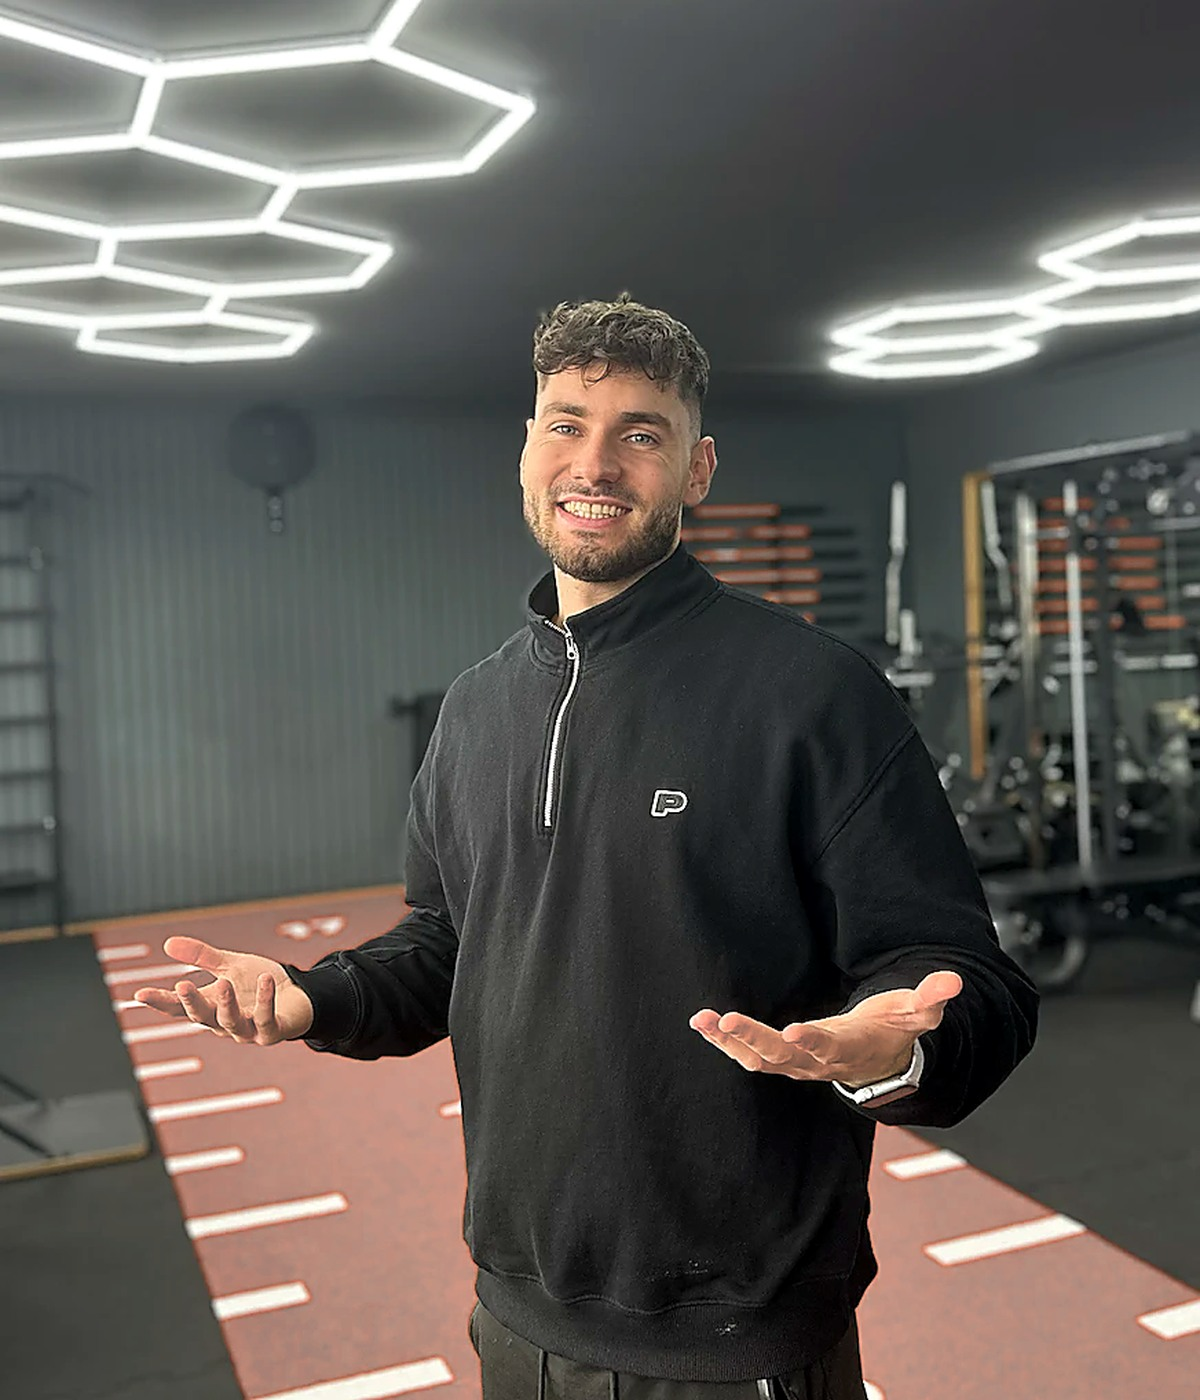
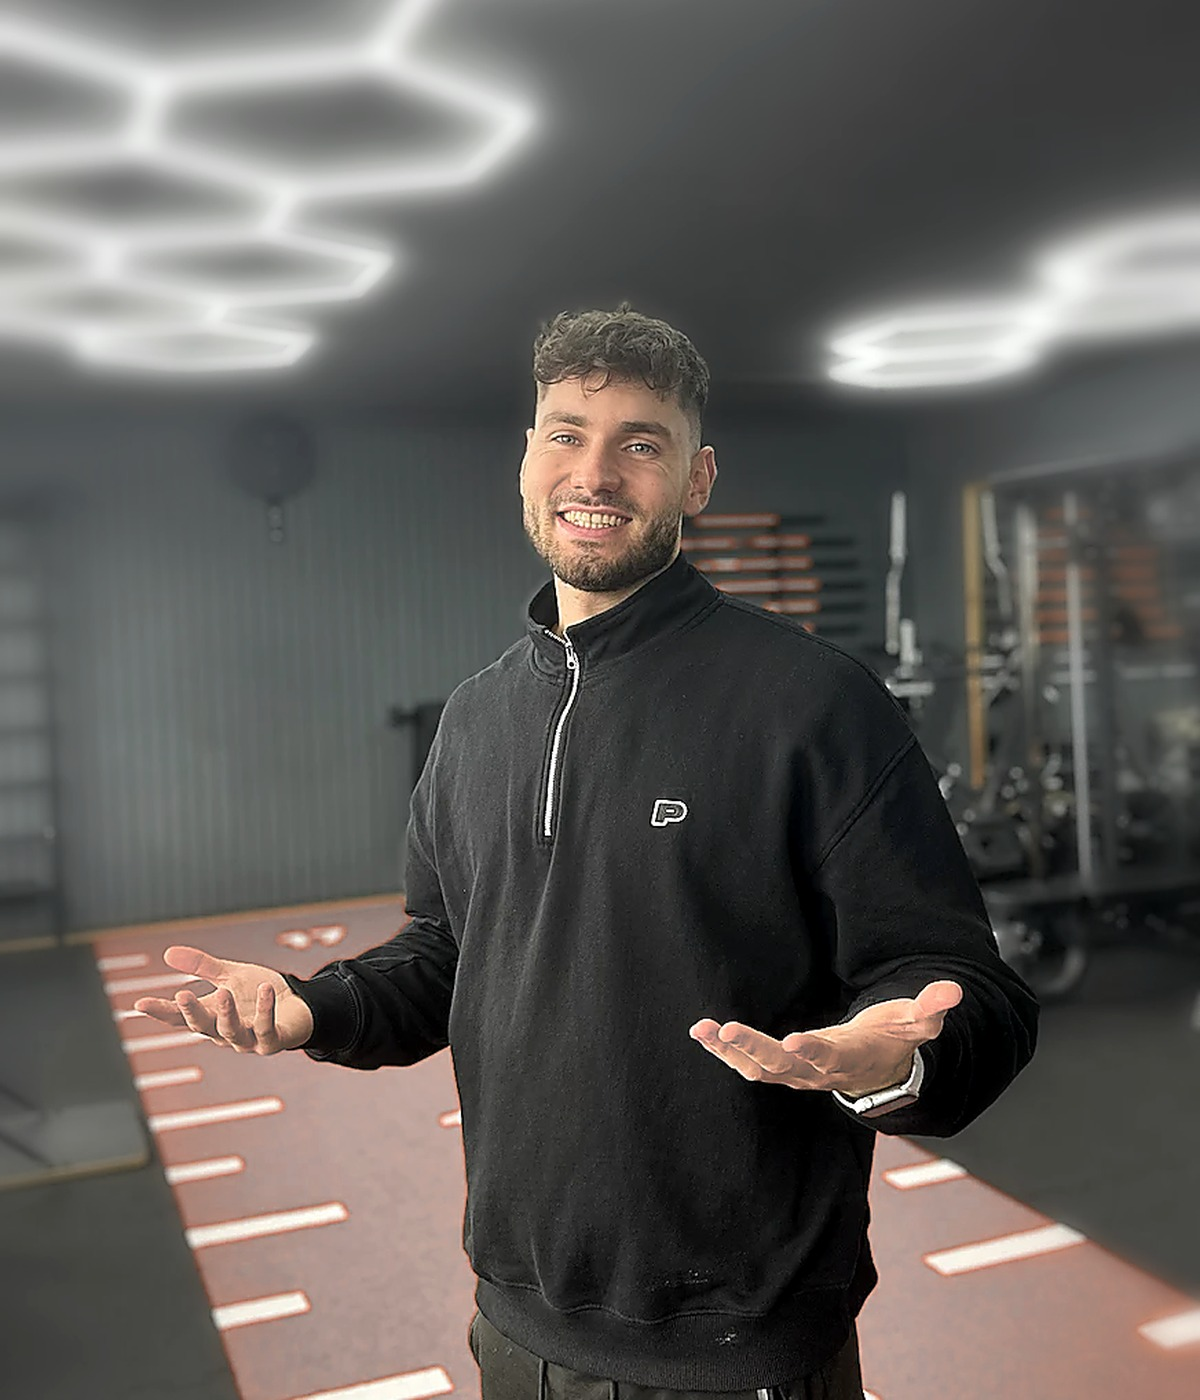
Hero auf dem Handy zweispaltig, Einladungsfoto mit Tiefenunschaerfe
- Hero: unter 820 px steht das Foto jetzt neben der Headline statt darunter
  (.hero-inner display:contents, Lead/Buttons/Bewertung darunter ueber die
  volle Breite), Bild im Format 3:4, Headline entsprechend kleiner
- aaron-call.jpg und aaron-point.jpg: Hintergrund per weicher Ellipsenmaske
  unscharf und entsaettigt, Orange zurueckgenommen, nachgeschaerft, 1200x1400
- .wait-cal vorbereitet, falls das Calendly-Widget an die Stelle des Fotos soll

Claude-Session: https://claude.ai/code/session_01X9ucmw29y3B6YrVRvm8FdK

diff --git a/styles.css b/styles.css
@@ -355,8 +355,21 @@ section[id],main[id]{scroll-margin-top:86px}
   .rating-text{font-size:.88rem}
   .media-frame::after{font-size:.74rem}
 
-  .hero{grid-template-columns:1fr;padding-top:2rem}
-  .hero-media{max-width:300px;margin-top:.5rem}
+  /* Hero bleibt auch auf dem Handy zweispaltig: Bild steht neben der Headline,
+     Lead, Buttons und Bewertung laufen darunter ueber die volle Breite */
+  .hero{
+    grid-template-columns:minmax(0,1fr) minmax(104px,34%);
+    column-gap:clamp(.8rem,3vw,1.6rem);row-gap:0;
+    padding-top:1.7rem;align-items:start
+  }
+  .hero-inner{display:contents}
+  .eyebrow{grid-column:1/-1;grid-row:1;margin-bottom:1rem}
+  .hero-title{grid-column:1;grid-row:2;align-self:center}
+  .hero-media{grid-column:2;grid-row:2;align-self:center;margin:0;max-width:none}
+  .lead{grid-column:1/-1;grid-row:3;margin:1.5rem 0 1.7rem;max-width:none}
+  .hero-cta{grid-column:1/-1;grid-row:4}
+  .rating{grid-column:1/-1;grid-row:5;justify-self:start;margin-top:1.3rem}
+  h1{font-size:clamp(2.35rem,9.2vw,3.4rem)}
   .nav{flex-wrap:wrap;row-gap:.65rem}
   .nav-links{order:3;width:100%;gap:1.35rem;overflow-x:auto;scrollbar-width:none;font-size:.88rem;padding-bottom:.15rem}
   .nav-links::-webkit-scrollbar{display:none}
@@ -521,8 +534,9 @@ html.lenis,html.lenis body{height:auto}
   .coach-media{max-width:300px}
 }
 @media (max-width:820px){
-  .hero-media{margin-right:0;max-width:340px;margin-inline:auto}
-  .hero-media img{max-height:none;clip-path:polygon(0 0,100% 0,100% 100%,0 100%);border-radius:var(--r)}
+  .hero-media{margin-right:0}
+  .hero-media img{max-height:none;aspect-ratio:3/4;object-position:56% 18%;
+    clip-path:polygon(0 0,100% 0,100% 100%,0 100%);border-radius:var(--r)}
   .coach-media{max-width:260px;justify-self:start}
   .coach-shape{left:-1rem;top:1rem;right:1rem;bottom:-1rem}
   .cta-bg img{height:100%;opacity:.55}
@@ -570,3 +584,6 @@ html.lenis,html.lenis body{height:auto}
   .wait-grid{grid-template-columns:1fr;gap:2rem}
   .wait-media{max-width:340px}
 }
+/* Variante B: Kalender an der Bildstelle */
+.wait-cal{background:var(--paper);border:1px solid var(--line-soft);border-radius:var(--r);
+  overflow:hidden;box-shadow:0 30px 70px -44px rgba(46,46,46,.45)}
